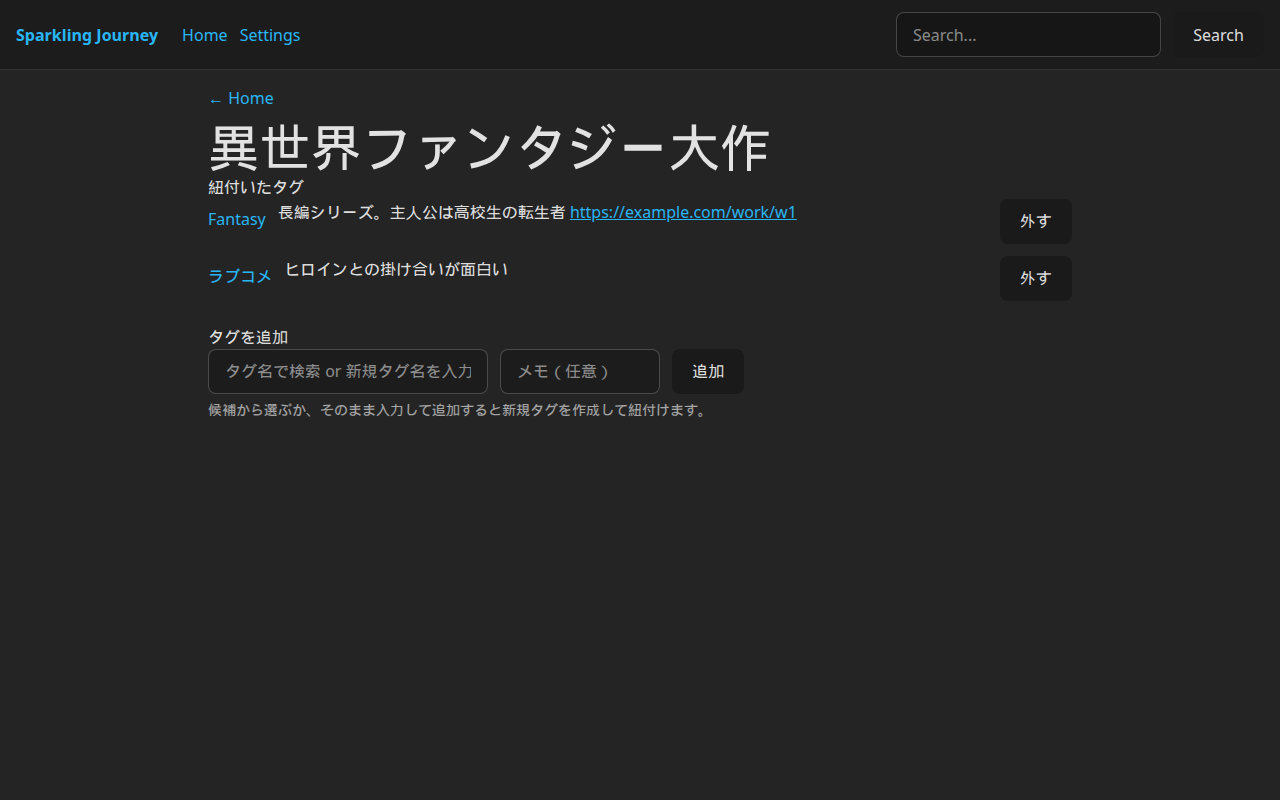
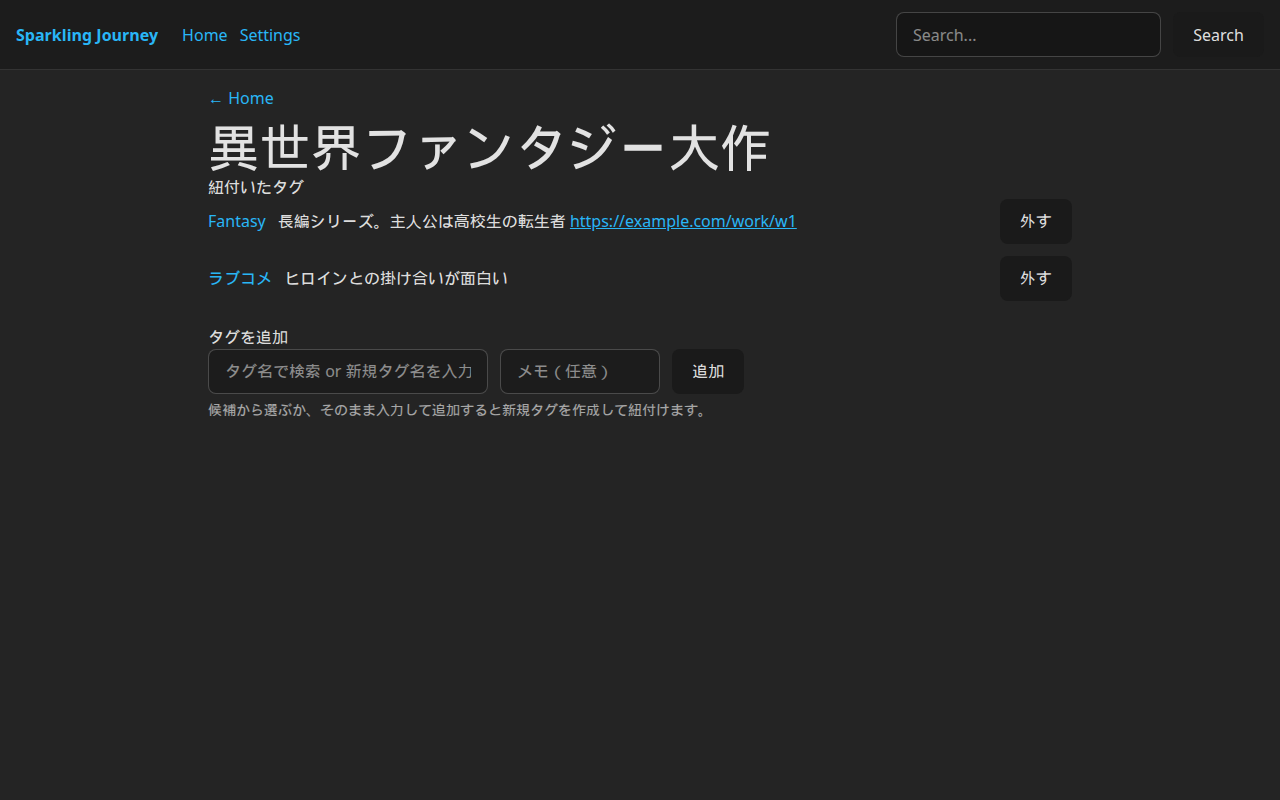
fix: work-detail のタグ行を縦中央揃えに修正
- <li> を items-start → items-center に変更
- タグ名 <Link> の補正用 pt-2 を削除
- 表示モード <div> の min-h-[2.5em] を削除（高さはコンテンツに任せる）

Changed region(s): [[0.1562, 0.3125, 0.4062, 0.375], [0.1562, 0.25, 0.625, 0.2812]]

diff --git a/src/app/pages/WorkDetailPage.tsx b/src/app/pages/WorkDetailPage.tsx
@@ -58,7 +58,7 @@ function WorkTagNoteInput({
         onKeyDown={(e) => {
           if (e.key === "Enter" || e.key === " ") setIsEditing(true);
         }}
-        className="w-full min-h-[2.5em] leading-relaxed cursor-text whitespace-pre-wrap"
+        className="w-full leading-relaxed cursor-text whitespace-pre-wrap"
       >
         {draft ? (
           <LinkifiedText text={draft} />
@@ -194,9 +194,9 @@ export function WorkDetailPage() {
             {work.workTags.map((wt) => (
               <li
                 key={wt.tag.uuid}
-                className="mb-3 flex items-start gap-3"
+                className="mb-3 flex items-center gap-3"
               >
-                <Link to={`/tags/${wt.tag.uuid}`} className="shrink-0 pt-2">
+                <Link to={`/tags/${wt.tag.uuid}`} className="shrink-0">
                   {wt.tag.name}
                 </Link>
                 <div className="min-w-0 flex-1">
